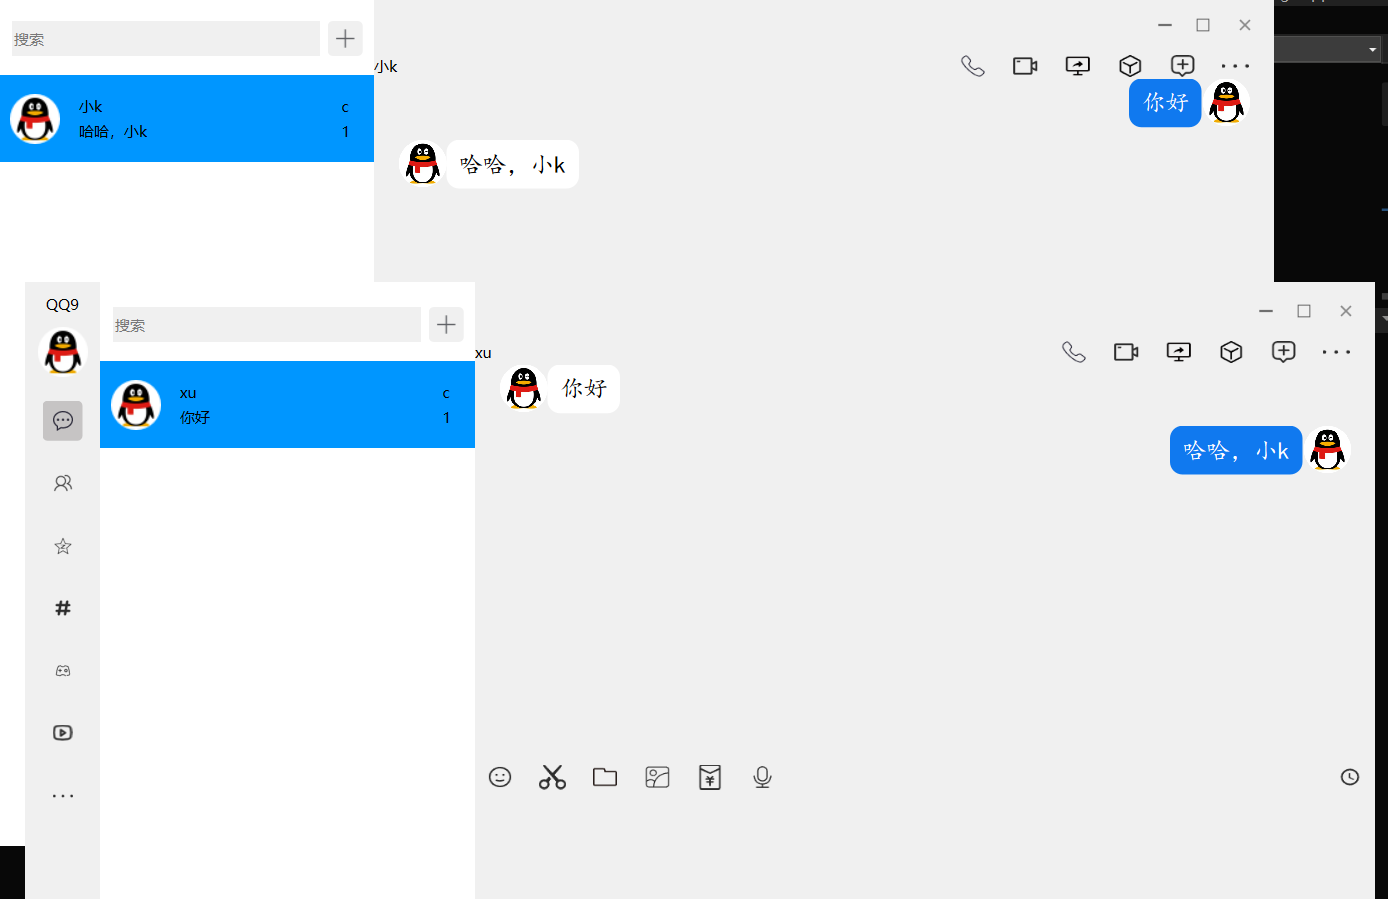
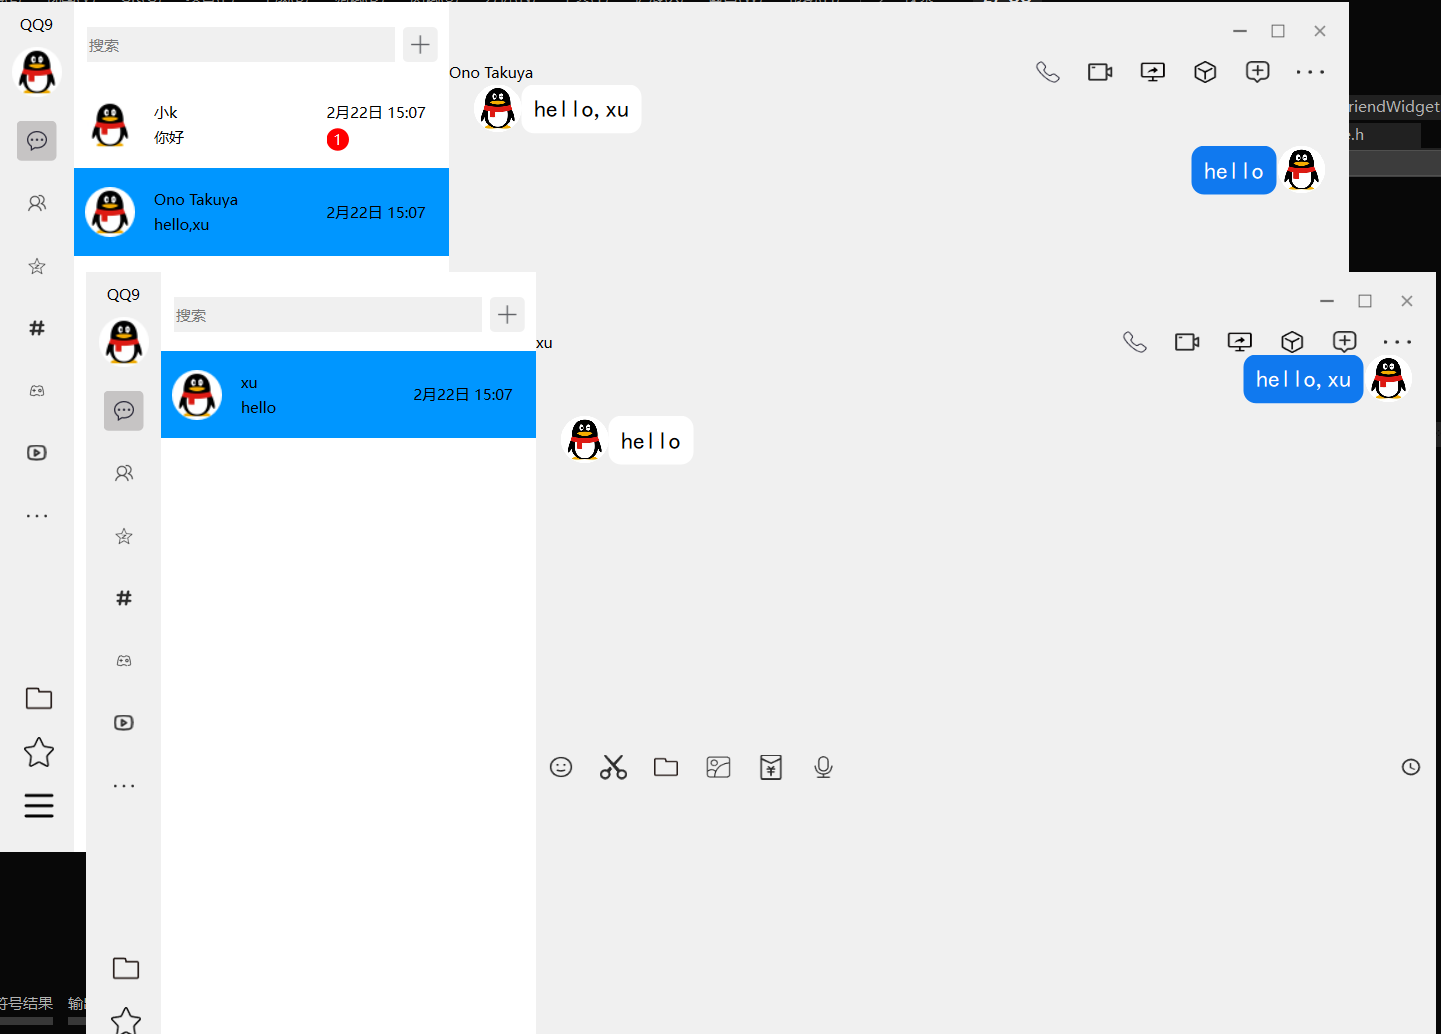
通知数量提示以及时间的显示

diff --git a/QQ-Client/Resource/StyleSheet/ContactList.css b/QQ-Client/Resource/StyleSheet/ContactList.css
@@ -34,9 +34,20 @@ QLabel{
 QLabel:hover {
     background-color: rgb(240,240,240);
 }
-
+QLabel#friendNoticeCountLab {
+    border: none;
+    border-radius: 9px;
+    color: white;
+    background-color: red;
+}
+QLabel#groupNoticeCountLab {
+    border: none;
+    border-radius: 9px;
+    color: white;
+    background-color: red;
+}
 /*QTreeWidget*/
-QTreeWidget{
+QTreeWidget {
     outline: none;
     border: none;
     font: 15px;

diff --git a/QQ-Client/MainWidget/MessagePage/MessageListItem.cpp b/QQ-Client/MainWidget/MessagePage/MessageListItem.cpp
@@ -1,4 +1,5 @@
 #include "MessageListItem.h"
+#include "MessageListItem.h"
 #pragma once
 #include "MessageListItem.h"
 #include "ui_MessageListItem.h"
@@ -15,7 +16,14 @@ MessageListItem::MessageListItem(QWidget* parent)
 {
 	ui->setupUi(this);
 	init();
-	
+	ui->countLab->setFixedSize(18,18);
+	ui->countLab->setStyleSheet(R"(
+				border:none;
+				border-radius:9px;
+				color:white;
+				background-color:red;
+			)");
+	ui->countLab->setAlignment(Qt::AlignCenter);
 }
 
 void MessageListItem::init()
@@ -35,7 +43,11 @@ void MessageListItem::setUser(const QJsonObject& obj)
 {
 	m_username = obj["username"].toString();
 	m_user_id = obj["user_id"].toString();
-	m_unReadMessage.append(obj["message"].toString());
+
+	if (obj.contains("message")&&!obj["message"].isNull()&&obj["message"].isString())
+	{
+		m_unReadMessage.append(obj["message"].toString());
+	}
 	qDebug() << "name" << m_username << m_user_id;
 	//信息更新到界面
 	updateItemWidget();
@@ -66,13 +78,39 @@ QString MessageListItem::getId()
 void MessageListItem::updateItemWidget()
 {
 	ui->usernameLab->setText(m_username);
-	auto newMessage = m_unReadMessage.last();
-	ui->messageLab->setText(newMessage);
-	ui->countLab->setText(QString::number(m_unReadMessage.count()));
+	if (m_unReadMessage.count())
+	{
+		ui->countLab->setVisible(true);
+		ui->countLab->setText(QString::number(m_unReadMessage.count()));
+		ui->countLab->adjustSize();
+		auto newMessage = m_unReadMessage.last();
+		ui->messageLab->setText(newMessage);
+		ui->timeLab->setText(covertToChinese(QDateTime::currentDateTime().toString()));
+	}
+	else
+	{
+		ui->countLab->setVisible(false);
+	}
+}
+
+QString MessageListItem::covertToChinese(const QString& date)	
+{
+	// 英文日期字符串转换为 QDateTime 对象
+	QDateTime dateTime = QDateTime::fromString(date, "ddd MMM dd hh:mm:ss yyyy");
+	if (dateTime.isValid())
+	{
+		qDebug() << dateTime;
+	}
+	// 设置本地化为中文
+	QLocale locale(QLocale::Chinese);
+	qDebug() <<"时间" << locale.toString(dateTime, "yyyy年MM月dd日 hh:mm");
+	// 转换为中文格式，并控制到分钟
+	return locale.toString(dateTime, "M月dd日 hh:mm");
 }
 
 void MessageListItem::updateUnreadMessage()
 {
 	m_unReadMessage.clear();
+	updateItemWidget();
 }
 

diff --git a/QQ-Client/MainWidget/ContactPage/ContactList.cpp b/QQ-Client/MainWidget/ContactPage/ContactList.cpp
@@ -78,6 +78,13 @@ void ContactList::init()
 	m_buttonGroup.setExclusive(true);
 	m_buttonGroup.button(-2)->setChecked(true);
 
+	ui->friendNoticeCountLab->setFixedSize(18, 18);
+	ui->groupNoticeCountLab->setFixedSize(18, 18);
+	ui->friendNoticeCountLab->setVisible(false);
+	ui->groupNoticeCountLab->setVisible(false);
+	ui->friendNoticeCountLab->setAlignment(Qt::AlignCenter);
+	ui->groupNoticeCountLab->setAlignment(Qt::AlignCenter);
+
 	//列表切换
 	connect(&m_buttonGroup,&QButtonGroup::idClicked,this,[=](int id)
 	{
@@ -109,10 +116,8 @@ void ContactList::init()
 	connect(Client::instance(), &Client::addFriend, this, [=]
 		{
 			m_fNoticeUnreadCount++;
+			ui->friendNoticeCountLab->setVisible(true);
 			ui->friendNoticeCountLab->setText(QString::number(m_fNoticeUnreadCount));
-			ui->friendNoticeCountLab->setStyleSheet(R"(		
-					color:red;
-			)");
 		});
 	//申请添加好友成功 更新好友列表
 	connect(Client::instance(), &Client::agreeAddFriend, this, [=](const QJsonObject&obj)
@@ -221,11 +226,8 @@ bool ContactList::eventFilter(QObject* obj, QEvent* event)
 		//点击好友申请通知 清空未读
 		emit friendNotice();
 		m_fNoticeUnreadCount = 0;
-		/*ui->friendNoticeCountLab->setStyleSheet(R"(
-					QLabel{background-color:white;}
-					QLabel:hover{background-color:rgb(240,240,240);}
-			)");*/
 		ui->friendNoticeCountLab->clear();
+		ui->friendNoticeCountLab->setVisible(false);
 		return true; // 事件已处理，不再继续传递
 	}
 	 if (obj == ui->gInformWidget && event->type() == QEvent::MouseButtonPress)
@@ -234,6 +236,8 @@ bool ContactList::eventFilter(QObject* obj, QEvent* event)
 		//点击群聊申请通知 清空未读
 		emit groupNotice();
 		m_gNoticeUnreadCount = 0;
+		ui->groupNoticeCountLab->clear();
+		ui->groupNoticeCountLab->setVisible(false);
 		return true; // 事件已处理，不再继续传递
 	}
 	return false; // 传递给基类处理其他事件

diff --git a/QQ-Client/MainWidget/MainWidget.cpp b/QQ-Client/MainWidget/MainWidget.cpp
@@ -63,14 +63,14 @@ MainWidget::MainWidget(QWidget* parent)
 			{
 				//有消息项 追加消息内容
 				auto itemWidget = qobject_cast<MessageListItem*>(m_messageList->itemWidget(item));
-
+				itemWidget->setUser(obj);
 				//判断当下是否是该user_id会话界面
 				if (m_messagePage->getCurrentID() == friend_id)
 				{
 					m_messagePage->updateReciveMessage(message);
 					itemWidget->updateUnreadMessage();
 				}
-				itemWidget->setUser(obj);
+				
 			}
 			else
 			{
@@ -160,6 +160,7 @@ void MainWidget::init()
 	connect(m_messageList, &QListWidget::itemClicked,this,[=](QListWidgetItem*item)
 		{
 			auto itemWidget = qobject_cast<MessageListItem*>(m_messageList->itemWidget(item));
+			itemWidget->updateUnreadMessage();
 			//已经处于当前用户会话界面
 			if (m_messagePage->getCurrentID() == itemWidget->getId())
 				return;

diff --git a/QQ-Client/MainWidget/MessagePage/MessagePage.cpp b/QQ-Client/MainWidget/MessagePage/MessagePage.cpp
@@ -1,5 +1,3 @@
-#include "MessagePage.h"
-#include "MessagePage.h"
 #pragma once
 #include "MessagePage.h"
 #include "ui_MessagePage.h"
@@ -121,12 +119,12 @@ void MessagePage::setUser(const QJsonObject& obj)
 	m_friend_id = obj["user_id"].toString();
 	m_chats.insert(m_friend_id, ChatMessage(User::instance()->getUserId(), m_friend_id));
 }
-
+//获取当前会话id
 QString MessagePage::getCurrentID()
 {
 	return m_currentID;
 }
-
+//更新会话界面信息
 void MessagePage::updateMessageWidget()
 {
 	ui->nameLab->setText(m_friend_username);

diff --git a/QQ-Server/Server.cpp b/QQ-Server/Server.cpp
@@ -292,7 +292,7 @@ void Server::handle_resultOfAddFriend(const QJsonObject& paramsObject)
 	QString data = QString(doc.toJson(QJsonDocument::Compact));
 	client->sendTextMessage(data);
 }
-
+//查询用户信息
 void Server::handle_queryUserDetail(const QJsonObject& paramsObject)
 {
 	//客户端

diff --git a/QQ-Client/MainWidget/MessagePage/MessageListItem.h b/QQ-Client/MainWidget/MessagePage/MessageListItem.h
@@ -18,6 +18,7 @@ public:
 	void updateUnreadMessage();
 private:
 	void updateItemWidget();
+	QString covertToChinese(const QString& date);
 private:
 	QWidget* m_leftWidget{};
 	QWidget* m_messageAttention{};
